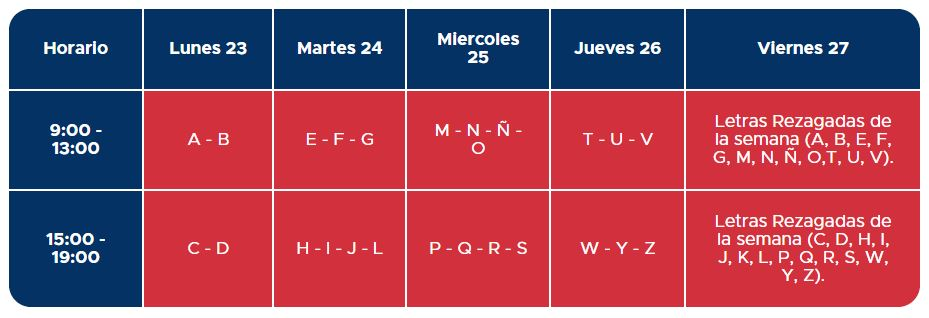
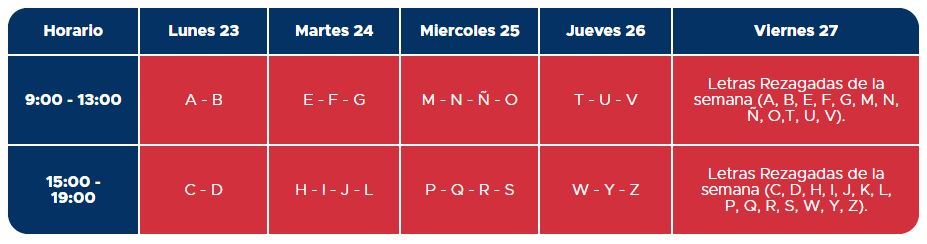
6
6

diff --git a/inscripciones.html b/inscripciones.html
@@ -6,8 +6,8 @@
         <meta name="viewport" content="width=device-width, initial-scale=1.0">
         <meta http-equiv="X-UA-Compatible" content="ie=edge">
         <title>Inscripciones | Escuela Secundaria Técnica 108 | Morelia</title>
+        <link href="https://fonts.googleapis.com/css?family=Raleway:100,100i,200,200i,300,300i,400,400i,500,500i,600,600i,700,700i,800,800i,900,900i&display=swap" rel="stylesheet">
         <link rel="shortcut icon" type="image/x-icon" href="Img/favicon.png">
-        
         <link rel="stylesheet" href="css/estilos.css">
     </head>
     <body>
@@ -79,33 +79,8 @@
                     <h2 class="sobre-nosotros">Calendario</h2>
                     <h3 class="slogan">Solicitud de Prefichas</h3>
                 </div>
-                <div class="tabla">
-                    <table class="tabla" bordercolor="white">
-                        <tr>
-                            <th class="horario">Horario</th>
-                            <th class="dias">Lunes 23</th>
-                            <th class="dias">Martes 24</th>
-                            <th class="dias">Miercoles 25</th>
-                            <th class="dias">Jueves 26</th>
-                            <th class="ultimo-dia">Viernes 27</th>
-                        </tr>
-                        <tr>
-                            <th>9:00  - 13:00</th>
-                            <td>A - B</td>
-                            <td>E - F - G</td>
-                            <td>M - N - Ñ - O</td>
-                            <td>T - U - V</td>
-                            <td>Letras Rezagadas de la semana (A, B, E, F, G, M, N, Ñ, O,T, U, V).</td>
-                        </tr>
-                        <tr>
-                            <th class="dias-last">15:00 - 19:00</th>
-                            <td>C - D</td>
-                            <td>H - I - J - L</td>
-                            <td>P - Q - R - S</td>
-                            <td>W - Y - Z</td>
-                            <td class="last">Letras Rezagadas de la semana (C, D, H, I, J, K, L, P, Q, R, S, W, Y, Z).</td>  
-                        </tr>
-                    </table>
+                <div>
+                    <img src="img/horario.JPG" alt="Horario" class="horario-img">
                 </div>
             </section>
             <section class="acerca-de">

diff --git a/css/estilos.css b/css/estilos.css
@@ -5,7 +5,7 @@
 }
 
 body {
-    font-family: "Metropolis", sans-serif;
+    font-family: "Raleway", sans-serif;
     font-size: 16px;
     overflow-x: hidden;
 }
@@ -15,16 +15,16 @@ body {
 /* Fonts */
 
 h1 {
-    font-family: "Metropolis";
-    src: url(../Fonts/metropolis-black-webfont.woff);
+    font-family: "Raleway";
+    font-weight: 900;
 }
 h2 {
-    font-family: "Metropolis";
-    src: url(../Fonts/metropolis-extrabold-webfont.woff);
+    font-family: "Raleway";
+    font-weight: 800;
 }
 h3 {
-    font-family: "Metropolis";
-    src: url(../Fonts/metropolis-bold-webfont.woff2);
+    font-family: "Raleway";
+    font-weight: 700;
 }
 h4 {
     font-family: "Metropolis";
@@ -39,20 +39,20 @@ h6 {
     font-weight: 400;
 }
 p {
-    font-family: "Metropolis";
-    src: url(../Fonts/metropolis-extralight-webfont.woff2);
+    font-family: "Raleway";
+    font-weight: 300;
 }
 li {
-    font-family: "Metropolis";
-    src: url(../Fonts/metropolis-light-webfont.woff);
+    font-family: "Raleway";
+    font-weight: 300;
 }
 td {
-    font-family: "Metropolis";
-    src: url(../Fonts/metropolis-light-webfont.woff);
+    font-family: "Raleway";
+    font-weight: 300;
 }
 th {
-    font-family: "Metropolis";
-    src: url(../Fonts/metropolis-bold-webfont.woff)
+    font-family: "Raleway";
+    font-weight: 800;
 }
 
 /* Header */
@@ -635,10 +635,10 @@ input[type="submit"] {
     }
 }
 
-@media screen and (max-width:450px) {
+@media screen and (max-width:70vw) {
 
     header .titulo {
-        font-size: 75px;
+        font-size: 100px;
     }
     h2 .sobre-nosotros {
         font-size: 45px;
@@ -751,7 +751,7 @@ footer {
 }
 
 .logo-footer {
-    width: 80%;
+    width: 100%;
 }
 
 .sesgoarriba-unico-2 {
@@ -966,3 +966,8 @@ th {
     padding: 15px;
 }
 
+.horario-img {
+    align-self: center;
+    margin: 5vw;
+    max-width: 90vw;
+}

diff --git a/contactos.html b/contactos.html
@@ -6,8 +6,8 @@
         <meta name="viewport" content="width=device-width, initial-scale=1.0">
         <meta http-equiv="X-UA-Compatible" content="ie=edge">
         <title>Contactos | Escuela Secundaria Técnica 108 | Morelia</title>
+        <link href="https://fonts.googleapis.com/css?family=Raleway:100,100i,200,200i,300,300i,400,400i,500,500i,600,600i,700,700i,800,800i,900,900i&display=swap" rel="stylesheet">
         <link rel="shortcut icon" type="image/x-icon" href="Img/favicon.png">
-        <link href="https://fonts.googleapis.com/css?family=Source+Sans+Pro:200,200i,300,300i,400,400i,600,600i,700,700i,900,900i&display=swap" rel="stylesheet">
         <link rel="stylesheet" href="css/estilos.css">
     </head>
     <body>

diff --git a/comunicados.html b/comunicados.html
@@ -6,6 +6,7 @@
         <meta name="viewport" content="width=device-width, initial-scale=1.0">
         <meta http-equiv="X-UA-Compatible" content="ie=edge">
         <title>Contingencia Sanitaria | Escuela Secundaria Técnica 108 | Morelia</title>
+        <link href="https://fonts.googleapis.com/css?family=Raleway:100,100i,200,200i,300,300i,400,400i,500,500i,600,600i,700,700i,800,800i,900,900i&display=swap" rel="stylesheet">
         <link rel="shortcut icon" type="image/x-icon" href="Img/favicon.png">
         <link rel="stylesheet" href="css/estilos.css">
     </head>

diff --git a/historia.html b/historia.html
@@ -6,6 +6,7 @@
         <meta name="viewport" content="width=device-width, initial-scale=1.0">
         <meta http-equiv="X-UA-Compatible" content="ie=edge">
         <title> Historia | Escuela Secundaria Técnica 108 | Morelia</title>
+        <link href="https://fonts.googleapis.com/css?family=Raleway:100,100i,200,200i,300,300i,400,400i,500,500i,600,600i,700,700i,800,800i,900,900i&display=swap" rel="stylesheet">
         <link rel="shortcut icon" type="image/x-icon" href="Img/favicon.png">
         <link rel="stylesheet" href="css/estilos.css">
     </head>

diff --git a/index.html b/index.html
@@ -6,6 +6,7 @@
         <meta name="viewport" content="width=device-width, initial-scale=1.0">
         <meta http-equiv="X-UA-Compatible" content="ie=edge">
         <title>Inicio | Escuela Secundaria Técnica 108 | Morelia</title>
+        <link href="https://fonts.googleapis.com/css?family=Raleway:100,100i,200,200i,300,300i,400,400i,500,500i,600,600i,700,700i,800,800i,900,900i&display=swap" rel="stylesheet">
         <link rel="shortcut icon" type="image/x-icon" href="Img/favicon.png">
         <link rel="stylesheet" href="css/estilos.css">
     </head>
